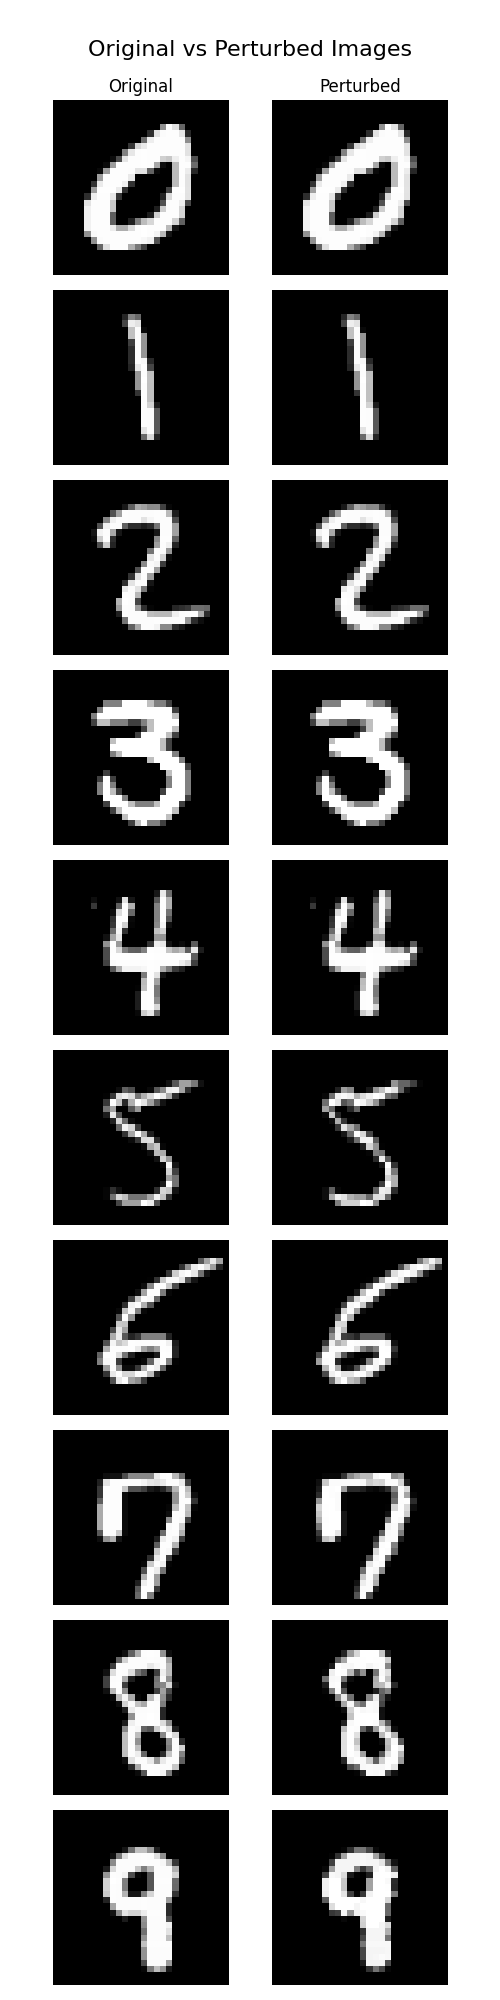
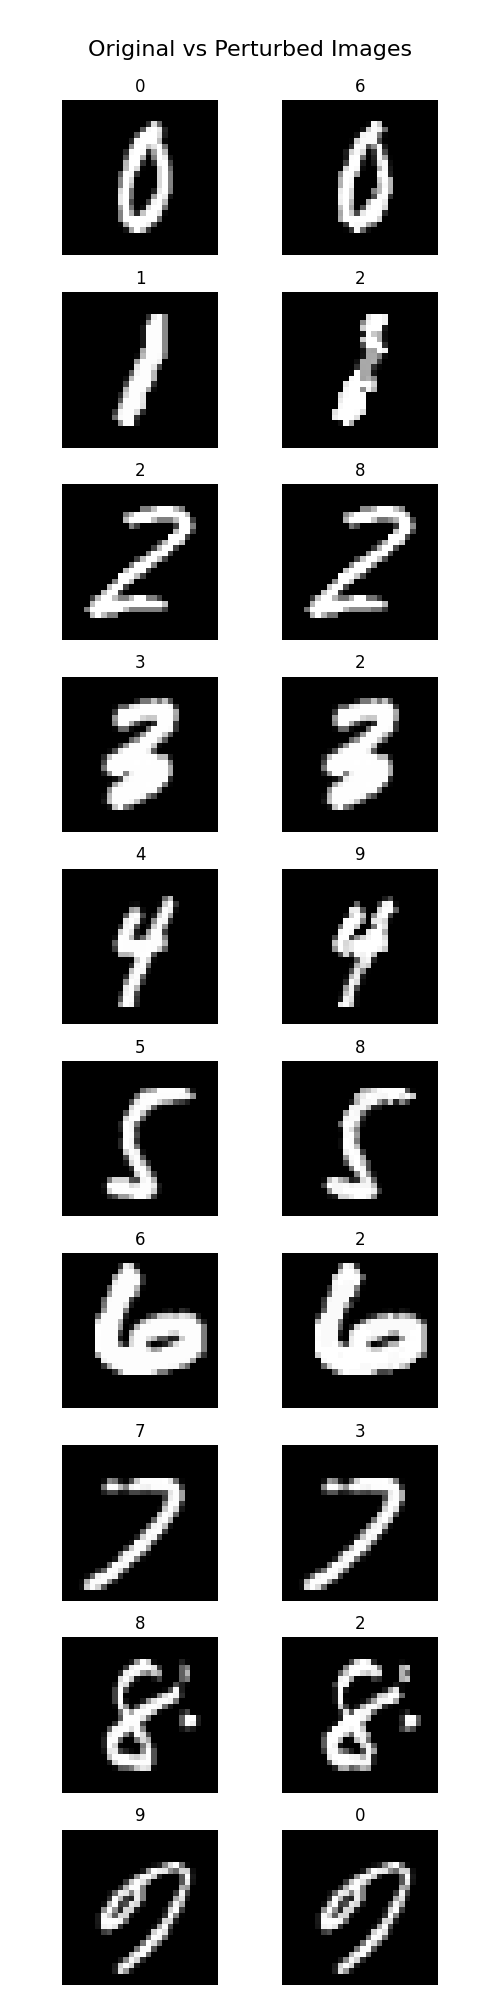
Change plot - only wrong predictions

Changed region(s): [[0.09, 0.031, 0.48, 0.992], [0.54, 0.031, 0.9, 0.992]]

diff --git a/src/backprop/pgd.py b/src/backprop/pgd.py
@@ -36,7 +36,7 @@ def measure_perturbation(original, adversarial):
     return l0_norm, l1_norm, l2_norm, linf_norm, wass
 
 # Plot unperturbed and perturbed images
-def image_plot(data, pert_data):
+def image_plot(data, pert_data, mispredictions):
     fig, axes = plt.subplots(nrows=10, ncols=2, figsize=(5, 20))
     fig.suptitle('Original vs Perturbed Images', fontsize=16)
 
@@ -49,10 +49,11 @@ def image_plot(data, pert_data):
         # Original image
         axes[i, 0].imshow(img_orig, cmap='gray')
         axes[i, 0].axis('off')
-
+        axes[i, 0].set_title(i)
         # Perturbed image
         axes[i, 1].imshow(img_pert, cmap='gray')
         axes[i, 1].axis('off')
+        axes[i, 1].set_title(mispredictions[i].item())
 
     plt.tight_layout()
     plt.subplots_adjust(top=0.95)
@@ -76,6 +77,7 @@ def test(net):
     images = [0,0,0,0,0,0,0,0,0,0]
     pert_images = [0,0,0,0,0,0,0,0,0,0]
     image_plot_done = False
+    mispredictions = [0,0,0,0,0,0,0,0,0,0]
 
     # drop_last switched to False to keep all samples
     test_loader = DataLoader(mnist_test, batch_size=batch_size, shuffle=True, drop_last=False)
@@ -91,15 +93,6 @@ def test(net):
         # print(f"Batch {batch}/{len(test_loader)}")
         # pert_data = deepfool(data, targets, net, attack)
         pert_data = pgd_attack(data, targets, attack)
-
-        if not image_plot_done:
-            for idx, target in enumerate(targets):
-                if not image_found[target]:
-                    images[target] = data[idx]
-                    pert_images[target] = pert_data[idx]
-                    image_found[target] = True 
-                    if all(image_found):
-                        image_plot(images, pert_images)
 
         # measure l2-NORM
         # measure l2-NORM
@@ -120,6 +113,17 @@ def test(net):
         print(f"Current Accuracy ({batch}): {100 * correct / total:.2f}%")
         print(f"Average L2-norm: {sum(l2_norms) / len(l2_norms):.2f}")
         batch += 1
+
+        # Plot first not correctly predicted images of each class
+        if not image_plot_done:
+            for idx, target in enumerate(targets):
+                if (not image_found[target]) and predicted[idx] != targets[idx]:
+                    mispredictions[target] = predicted[idx]
+                    images[target] = data[idx]
+                    pert_images[target] = pert_data[idx]
+                    image_found[target] = True 
+                    if all(image_found):
+                        image_plot(images, pert_images, mispredictions)
     
     print(f"Total correctly classified test set images: {correct}/{total}")
     print(f"Test Set Accuracy: {100 * correct / total:.2f}%")

diff --git a/src/backprop/cw.py b/src/backprop/cw.py
@@ -35,7 +35,7 @@ def measure_perturbation(original, adversarial):
     return l0_norm, l1_norm, l2_norm, linf_norm, wass
 
 # Plot unperturbed and perturbed images
-def image_plot(data, pert_data):
+def image_plot(data, pert_data, mispredictions):
     fig, axes = plt.subplots(nrows=10, ncols=2, figsize=(5, 20))
     fig.suptitle('Original vs Perturbed Images', fontsize=16)
 
@@ -48,10 +48,11 @@ def image_plot(data, pert_data):
         # Original image
         axes[i, 0].imshow(img_orig, cmap='gray')
         axes[i, 0].axis('off')
-
+        axes[i, 0].set_title(i)
         # Perturbed image
         axes[i, 1].imshow(img_pert, cmap='gray')
         axes[i, 1].axis('off')
+        axes[i, 1].set_title(mispredictions[i].item())
 
     plt.tight_layout()
     plt.subplots_adjust(top=0.95)
@@ -75,6 +76,7 @@ def test(net):
     images = [0,0,0,0,0,0,0,0,0,0]
     pert_images = [0,0,0,0,0,0,0,0,0,0]
     image_plot_done = False
+    mispredictions = [0,0,0,0,0,0,0,0,0,0]
 
     # drop_last switched to False to keep all samples
     test_loader = DataLoader(mnist_test, batch_size=batch_size, shuffle=True, drop_last=False)
@@ -90,15 +92,6 @@ def test(net):
 
         # print(f"Batch {batch}/{len(test_loader)}")
         pert_data = cw(data, targets, attack)
-
-        if not image_plot_done:
-            for idx, target in enumerate(targets):
-                if not image_found[target]:
-                    images[target] = data[idx]
-                    pert_images[target] = pert_data[idx]
-                    image_found[target] = True 
-                    if all(image_found):
-                        image_plot(images, pert_images)
 
         # measure l2-NORM
         # measure l2-NORM
@@ -119,6 +112,18 @@ def test(net):
         print(f"Current Accuracy ({batch}): {100 * correct / total:.2f}%")
         print(f"Average L2-norm: {sum(l2_norms) / len(l2_norms):.2f}")
         batch += 1
+
+        # Plot first not correctly predicted images of each class
+        if not image_plot_done:
+            for idx, target in enumerate(targets):
+                if (not image_found[target]) and predicted[idx] != targets[idx]:
+                    mispredictions[target] = predicted[idx]
+                    images[target] = data[idx]
+                    pert_images[target] = pert_data[idx]
+                    image_found[target] = True 
+                    if all(image_found):
+                        image_plot(images, pert_images, mispredictions)
+
     
     print(f"Total correctly classified test set images: {correct}/{total}")
     print(f"Test Set Accuracy: {100 * correct / total:.2f}%")

diff --git a/src/backprop/fgsm.py b/src/backprop/fgsm.py
@@ -39,7 +39,7 @@ def measure_perturbation(original, adversarial):
     return l0_norm, l1_norm, l2_norm, linf_norm, wass
 
 # Plot unperturbed and perturbed images
-def image_plot(data, pert_data):
+def image_plot(data, pert_data, mispredictions):
     fig, axes = plt.subplots(nrows=10, ncols=2, figsize=(5, 20))
     fig.suptitle('Original vs Perturbed Images', fontsize=16)
 
@@ -52,10 +52,11 @@ def image_plot(data, pert_data):
         # Original image
         axes[i, 0].imshow(img_orig, cmap='gray')
         axes[i, 0].axis('off')
-
+        axes[i, 0].set_title(i)
         # Perturbed image
         axes[i, 1].imshow(img_pert, cmap='gray')
         axes[i, 1].axis('off')
+        axes[i, 1].set_title(mispredictions[i].item())
 
     plt.tight_layout()
     plt.subplots_adjust(top=0.95)
@@ -78,6 +79,7 @@ def test(net, eps):
     images = [0,0,0,0,0,0,0,0,0,0]
     pert_images = [0,0,0,0,0,0,0,0,0,0]
     image_plot_done = False
+    mispredictions = [0,0,0,0,0,0,0,0,0,0]
 
     # drop_last switched to False to keep all samples
     test_loader = DataLoader(mnist_test, batch_size=batch_size, shuffle=True, drop_last=False)
@@ -90,15 +92,6 @@ def test(net, eps):
         targets = targets.to(device)
 
         pert_data = fgsm_attack(data, targets, net, attack)
-
-        if not image_plot_done:
-            for idx, target in enumerate(targets):
-                if not image_found[target]:
-                    images[target] = data[idx]
-                    pert_images[target] = pert_data[idx]
-                    image_found[target] = True 
-                    if all(image_found):
-                        image_plot(images, pert_images)
 
         # measure l2-NORM
         l0, l1, l2, linf, wass = measure_perturbation(data, pert_data)
@@ -115,6 +108,17 @@ def test(net, eps):
         _, predicted = test_spk.sum(dim=0).max(1)
         total += targets.size(0)
         correct += (predicted == targets).sum().item()
+
+        # Plot first not correctly predicted images of each class
+        if not image_plot_done:
+            for idx, target in enumerate(targets):
+                if (not image_found[target]) and predicted[idx] != targets[idx]:
+                    mispredictions[target] = predicted[idx]
+                    images[target] = data[idx]
+                    pert_images[target] = pert_data[idx]
+                    image_found[target] = True 
+                    if all(image_found):
+                        image_plot(images, pert_images, mispredictions)
 
     print(f"Epsilon: {eps}")    
     print(f"Total correctly classified test set images: {correct}/{total}")
